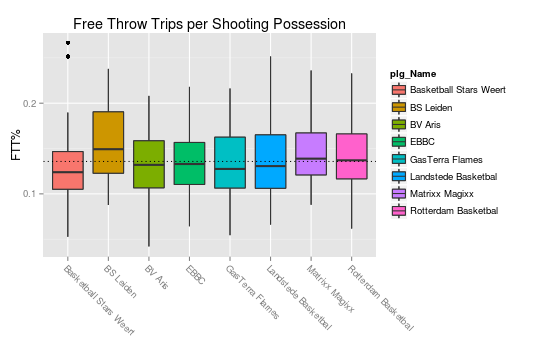
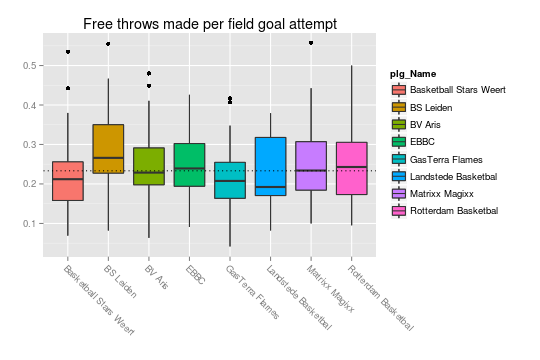
Updated report files

diff --git a/site/pages/reports/2011-2012/teamindicators_regular_season.rst b/site/pages/reports/2011-2012/teamindicators_regular_season.rst
@@ -99,12 +99,12 @@ The correlation matrix for the four factors and the net rating is displayed belo
 
 ::
 
-    ##             Nrtg   EFGpct    ORpct    TOpct    FTTpct
-    ## Nrtg    1.000000  0.57096  0.33285 -0.34664 -0.004752
-    ## EFGpct  0.570960  1.00000  0.03471 -0.13503 -0.047915
-    ## ORpct   0.332854  0.03471  1.00000  0.08826 -0.056106
-    ## TOpct  -0.346642 -0.13503  0.08826  1.00000  0.090040
-    ## FTTpct -0.004752 -0.04792 -0.05611  0.09004  1.000000
+    ##            Nrtg   EFGpct    ORpct    TOpct     FT4f
+    ## Nrtg    1.00000  0.57096  0.33285 -0.34664  0.03441
+    ## EFGpct  0.57096  1.00000  0.03471 -0.13503  0.02665
+    ## ORpct   0.33285  0.03471  1.00000  0.08826 -0.03013
+    ## TOpct  -0.34664 -0.13503  0.08826  1.00000  0.10776
+    ## FT4f    0.03441  0.02665 -0.03013  0.10776  1.00000
 
 
 
